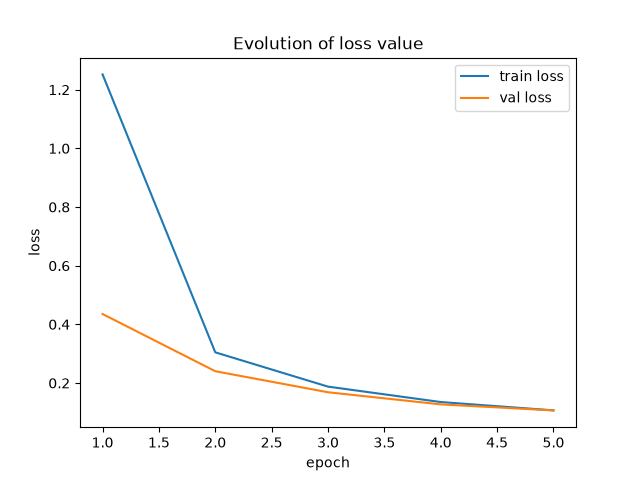
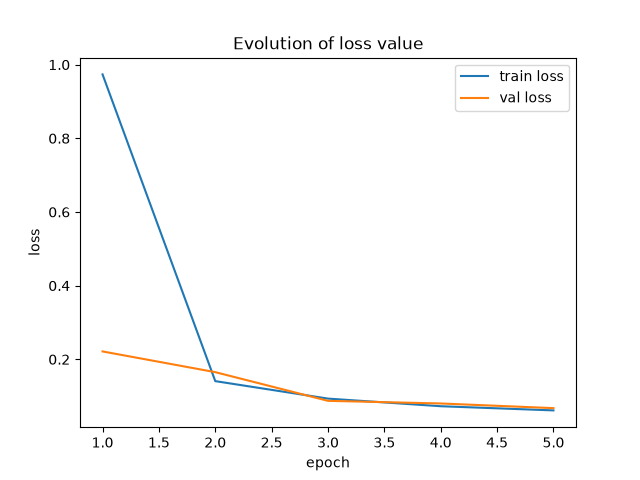
Addition of plots for CNN

diff --git a/src/utils/visualization.py b/src/utils/visualization.py
@@ -174,3 +174,46 @@ def plot_neural_net_2D(plot: NN2DPlot, filename):
 
     fig.savefig(_figure_path(plot.dirname, filename), dpi=120, bbox_inches="tight")
     plt.close(fig)
+
+
[email redacted]_grad()
+def plot_mnist_cnn(model, image, dirname, device):
+
+    model.eval()
+    image = image.to(device)
+
+    ## plot convolution filters
+    conv1 = model.net[1]
+    filters = conv1.weight.detach().cpu()
+
+    fig, axes = plt.subplots(2, 3, figsize=(8, 5))
+    for i, ax in enumerate(axes.flat):     # axes.flat: array of axes -> list
+        ax.imshow(filters[i, 0].numpy(), cmap="gray")
+        ax.set_title(f"Filter {i}")
+        ax.axis("off")
+    fig.suptitle("Conv1 filters (from learned weights)")   # global title
+    plt.savefig(_figure_path(dirname, "filters.png"))
+    plt.close()
+
+    ## plot feature maps on an image
+    x = image
+    x = model.net[0](x)
+    x = model.net[1](x)
+    x = model.net[2](x)
+
+    features = x.cpu()    # because numpy/matplotlib need cpu tensors
+    fig = plt.figure(figsize=(12, 8))
+
+    ax0 = fig.add_subplot(3, 3, 1)
+    ax0.imshow(image.cpu().squeeze().numpy(), cmap="gray", vmin=0, vmax=1)   # vmin and vmax to fix color scale
+    ax0.set_title("Input")
+    ax0.axis("off")
+
+    for i in range(6):
+        ax = fig.add_subplot(3, 3, i + 2)
+        ax.imshow(features[0, i].numpy(), cmap="viridis")
+        ax.set_title(f"Activation {i}")
+        ax.axis("off")
+    fig.suptitle("Conv1 feature maps on a sample image")
+    fig.savefig(_figure_path(dirname, "feature_maps.png"), dpi=120, bbox_inches="tight")   # dpi: dots per inch (resolution) and bbox_tight to avoid white margins
+    plt.close(fig)

diff --git a/src/train/mnist_cnn.py b/src/train/mnist_cnn.py
@@ -1,15 +1,16 @@
 import torch
 from torch import nn
+from torchvision.utils import save_image
 from tqdm import tqdm
 from src.data.mnist_cnn import data_mnist_cnn
 from src.models.mnist_cnn import MNISTCNN
 from src.utils.config import MNIST_CNN
-from src.utils.visualization import plot_loss
+from src.utils.visualization import plot_loss, _figure_path, plot_mnist_cnn
 from src.utils.metrics import test_multiclass_accuracy, update_conf_mat, metrics_from_conf_mat
 
 
 def train_mnist_cnn():
-    torch.set_num_threads(4)    # parallelization for training, optional here
+    torch.set_num_threads(4)    # limits the cpu threads used for computations
 
     device = torch.device("cuda" if torch.cuda.is_available() else "cpu")
     print(f"Using device: {device}")
@@ -17,6 +18,13 @@ def train_mnist_cnn():
 
     dirname = "05_mnist_cnn"
     train_loader, val_loader, test_loader = data_mnist_cnn()
+
+    ## save an example
+    images, labels = next(iter(train_loader))    # first batch of the iterator train_loader
+    # cpu is used here and not device (which might be gpu)
+    save_image(images[:8].cpu(), _figure_path(dirname, "sample_images.png"), nrow=4)   # or directly through matplotlib
+
+
     model = MNISTCNN().to(device)
     # model = torch.compile(model)
 
@@ -71,7 +79,12 @@ def train_mnist_cnn():
         )
         print()
 
+    ## plots
     plot_loss(train_losses, dirname, val_losses=val_losses)
+
+    images, labels = next(iter(train_loader))
+    image = images[0:1].to(device)
+    plot_mnist_cnn(model, image, dirname, device)    # plots the filters from layer conv1 and feature maps from after
 
     model.eval()
     with torch.no_grad():

diff --git a/src/models/mnist_cnn.py b/src/models/mnist_cnn.py
@@ -9,18 +9,19 @@ class MNISTCNN(nn.Module):
             # input shape is [N, depth=1, height=28, width=28]
             nn.ZeroPad2d(2),      # [N, 1, 28, 28] -> [N, 1, 32, 32]
             nn.Conv2d(in_channels=1, out_channels=6, kernel_size=5, stride=1, padding=0),  # out: shape [N, 6, 28, 28] because 6 feature maps
-            nn.Tanh(),    # or nn.ReLU(), but that's how the paper did it
+            nn.ReLU(),    # the paper used nn.Tanh()
             nn.MaxPool2d(kernel_size=2, stride=2),    # out: shape [N, 6, 14, 14] (each square 2x2 -> 1x1)
-            # no activation here because the operation max(...) is already non-linear
+            
             nn.Conv2d(in_channels=6, out_channels=16, kernel_size=5, stride=1, padding=0),  # out: shape [N, 16, 10, 10]
-            nn.Tanh(),
+            nn.ReLU(),
             nn.MaxPool2d(kernel_size=2, stride=2),   # out: shape [N, 16, 5, 5]
-            nn.Conv2d(in_channels=16, out_channels=120, kernel_size=5, stride=1, padding=0) ,  # out: shape [N, 120, 1, 1]
-            nn.Tanh(),
 
-            nn.Flatten(),    # out: shape [N, ]
+            nn.Conv2d(in_channels=16, out_channels=120, kernel_size=5, stride=1, padding=0) ,  # out: shape [N, 120, 1, 1]
+            nn.ReLU(),
+
+            nn.Flatten(),    # out: shape [N, 120]
             nn.Linear(120, 84),   # out: shape [N, 84]
-            nn.Tanh(),
+            nn.ReLU(),
             nn.Linear(84, 10)    # out: shape [N, 10]
         )
 

diff --git a/src/data/mnist_cnn.py b/src/data/mnist_cnn.py
@@ -36,7 +36,7 @@ def data_mnist_cnn():
         train_set,
         batch_size=MNIST_CNN["batch_size"],
         shuffle=True,
-        # num_workers=4,    # useless if only CPU. Parallelization for data loading
+        # num_workers=4,    # parallelization of loading, useful for GPU, in my case 0
         # pin_memory=True   # accelerates transfer CPU -> GPU, but in my case it's useless
     )
 

diff --git a/src/train/mnist_mlp.py b/src/train/mnist_mlp.py
@@ -35,7 +35,7 @@ def train_mnist_mlp():
             labels = labels.to(device)
             optimizer.zero_grad()
             train_logits = model(images)
-            train_loss = loss_fn(train_logits, labels)    # this time, the shape must be [batch_size, output_size]
+            train_loss = loss_fn(train_logits, labels)    # this time, logits shape is [batch_size, output_size]
             epoch_train_loss += train_loss.item()
             train_loss.backward()
             optimizer.step()

diff --git a/src/utils/config.py b/src/utils/config.py
@@ -38,7 +38,7 @@ MNIST_MLP = {
 
 MNIST_CNN = {
     "epochs": 5,
-    "lr": 0.01,
+    "lr": 0.02,
     "val_ratio": 0.1,
     "data_dir": "data",
     "batch_size": 32

diff --git a/src/utils/metrics.py b/src/utils/metrics.py
@@ -38,7 +38,7 @@ def binary_classification_metrics(Y: torch.Tensor, logits: torch.Tensor, thresho
     Yhat = torch.sigmoid(logits)
     pred = Yhat >= threshold
 
-    tp = (pred & (Y == 1)).sum().item()     # & for boolean manipulation in pytorch, .item() to get a float
+    tp = (pred & (Y == 1)).sum().item()     # & for boolean manipulation in pytorch, .item() to get a scalar (int64 generally)
     tn = (~pred & (Y == 0)).sum().item()    # ~pred instead of !pred
     fp = (pred & (Y == 0)).sum().item()
     fn = (~pred & (Y == 1)).sum().item()